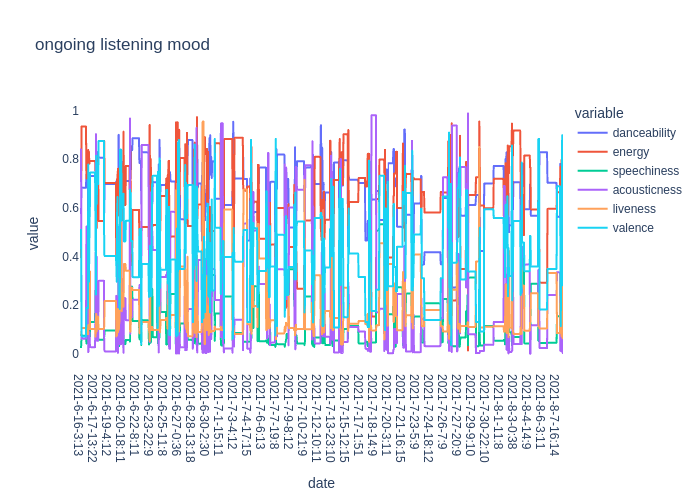
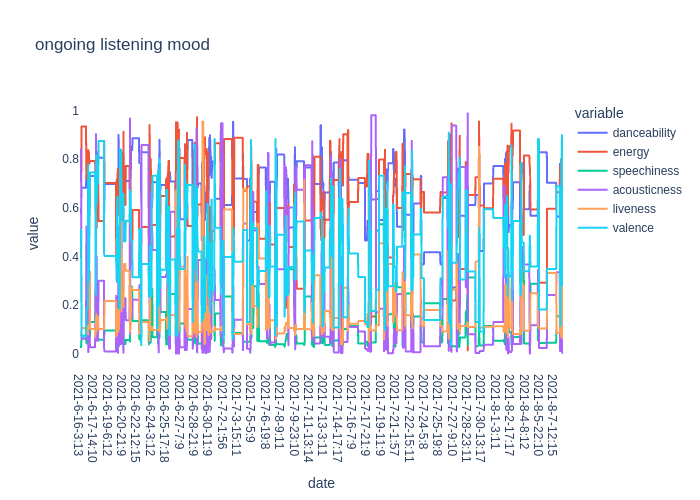
Automated README update

diff --git a/README.md b/README.md
@@ -4,7 +4,7 @@ Automated music metrics for fun, updated hourly.
 
 ## Spotify
 
-- currently listening to **Khalid - OTW**
+- currently listening to **Jim-E Stack - Can We (with Kacy Hill)**
 
 - **866** liked songs
 - **136** playlists
